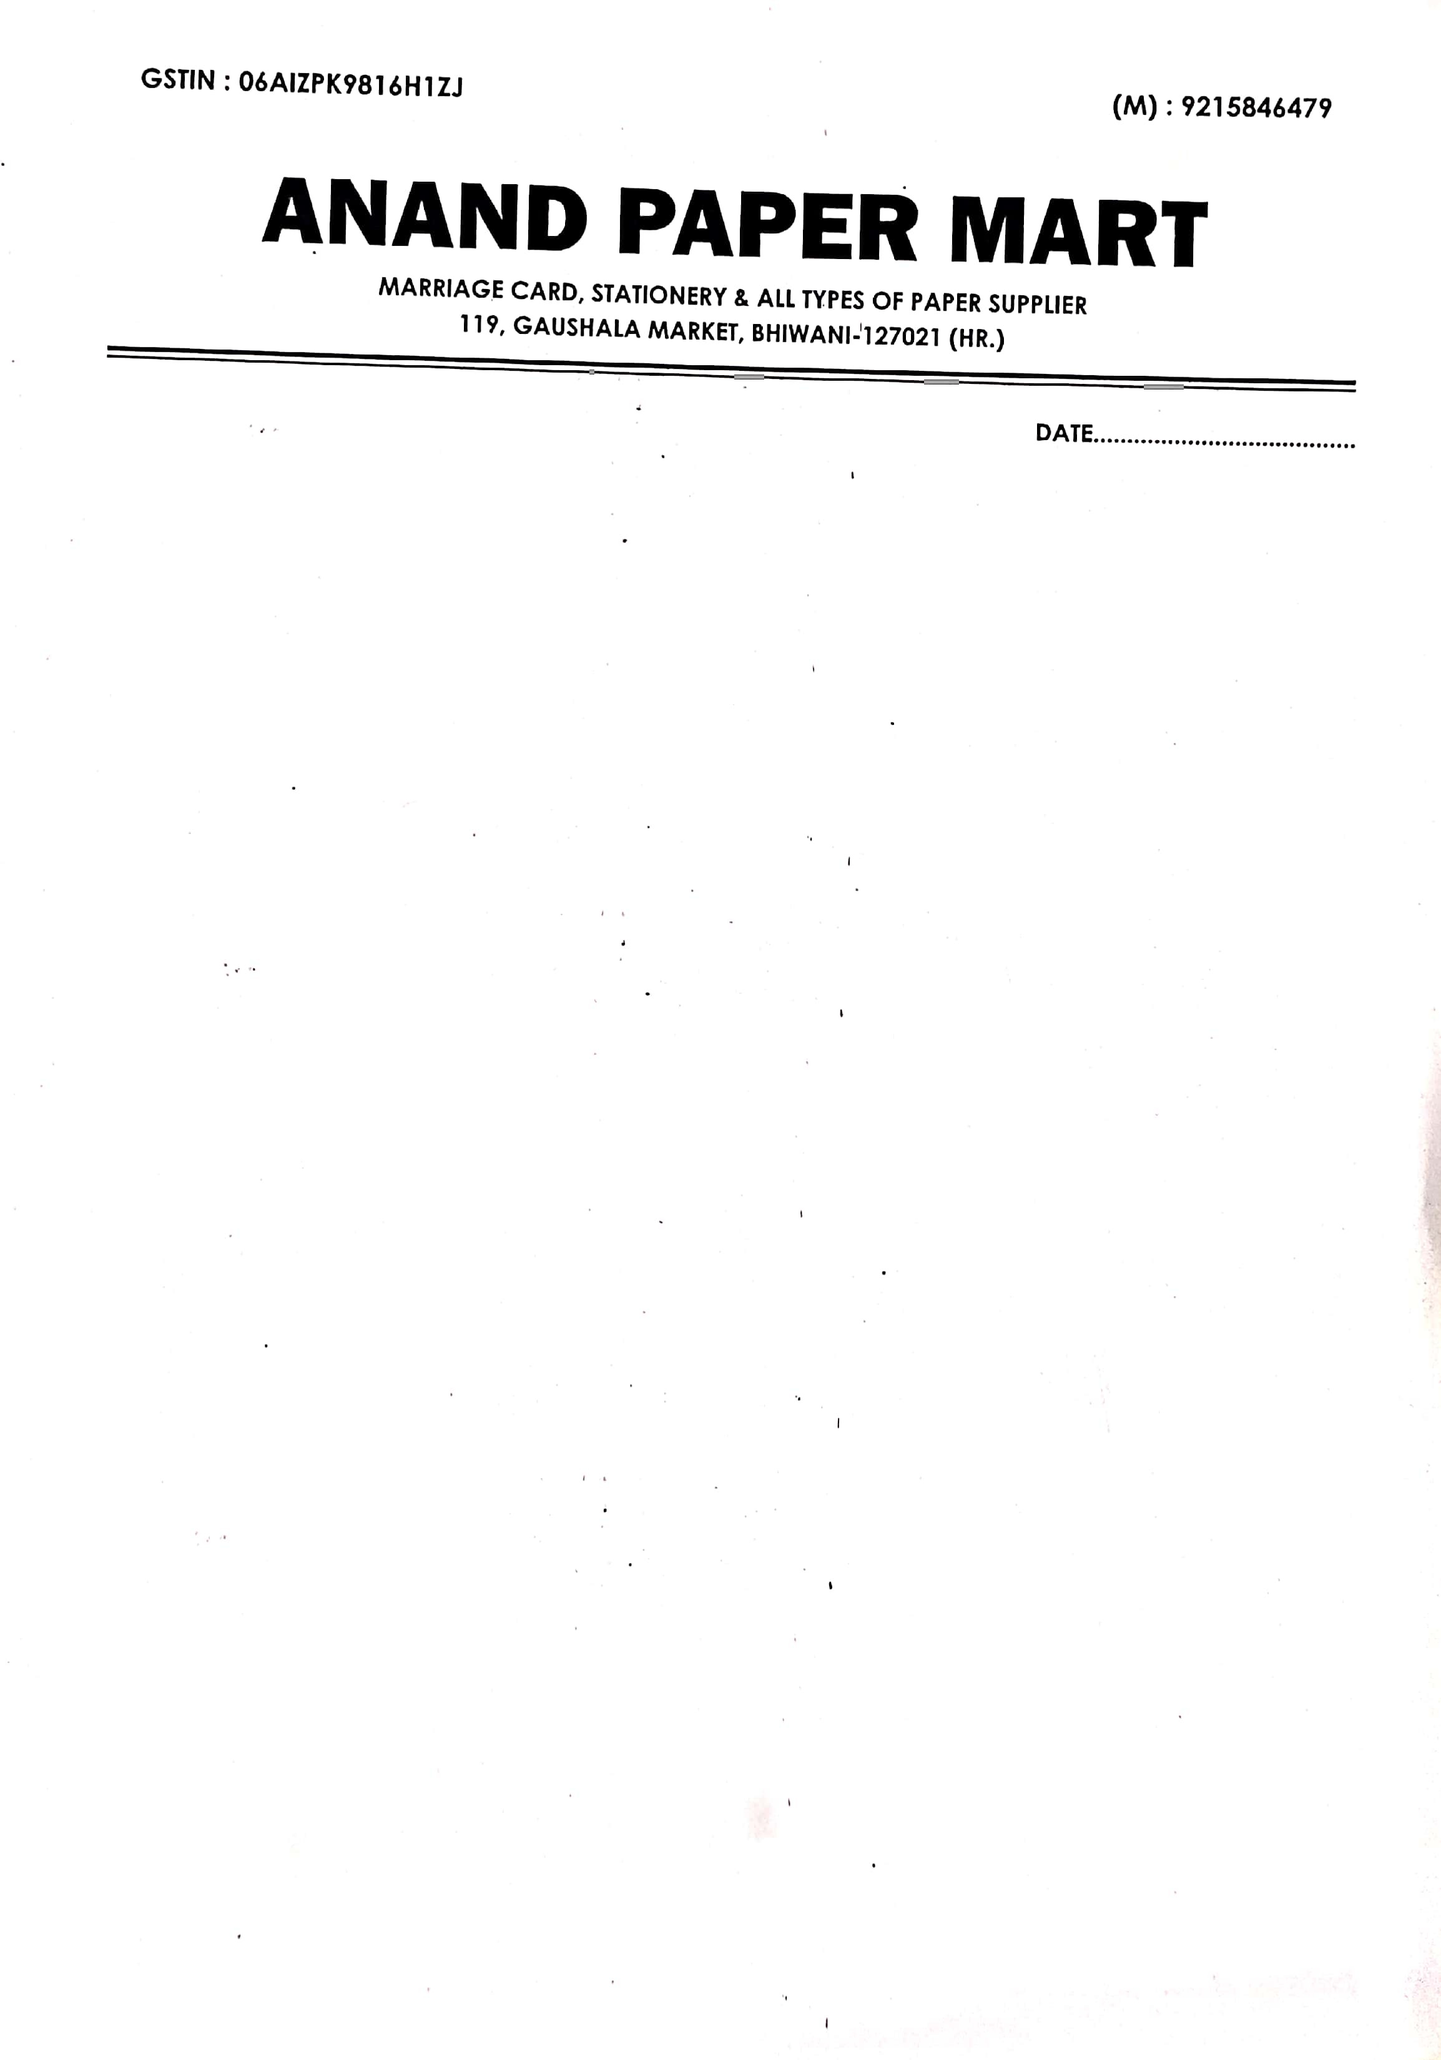
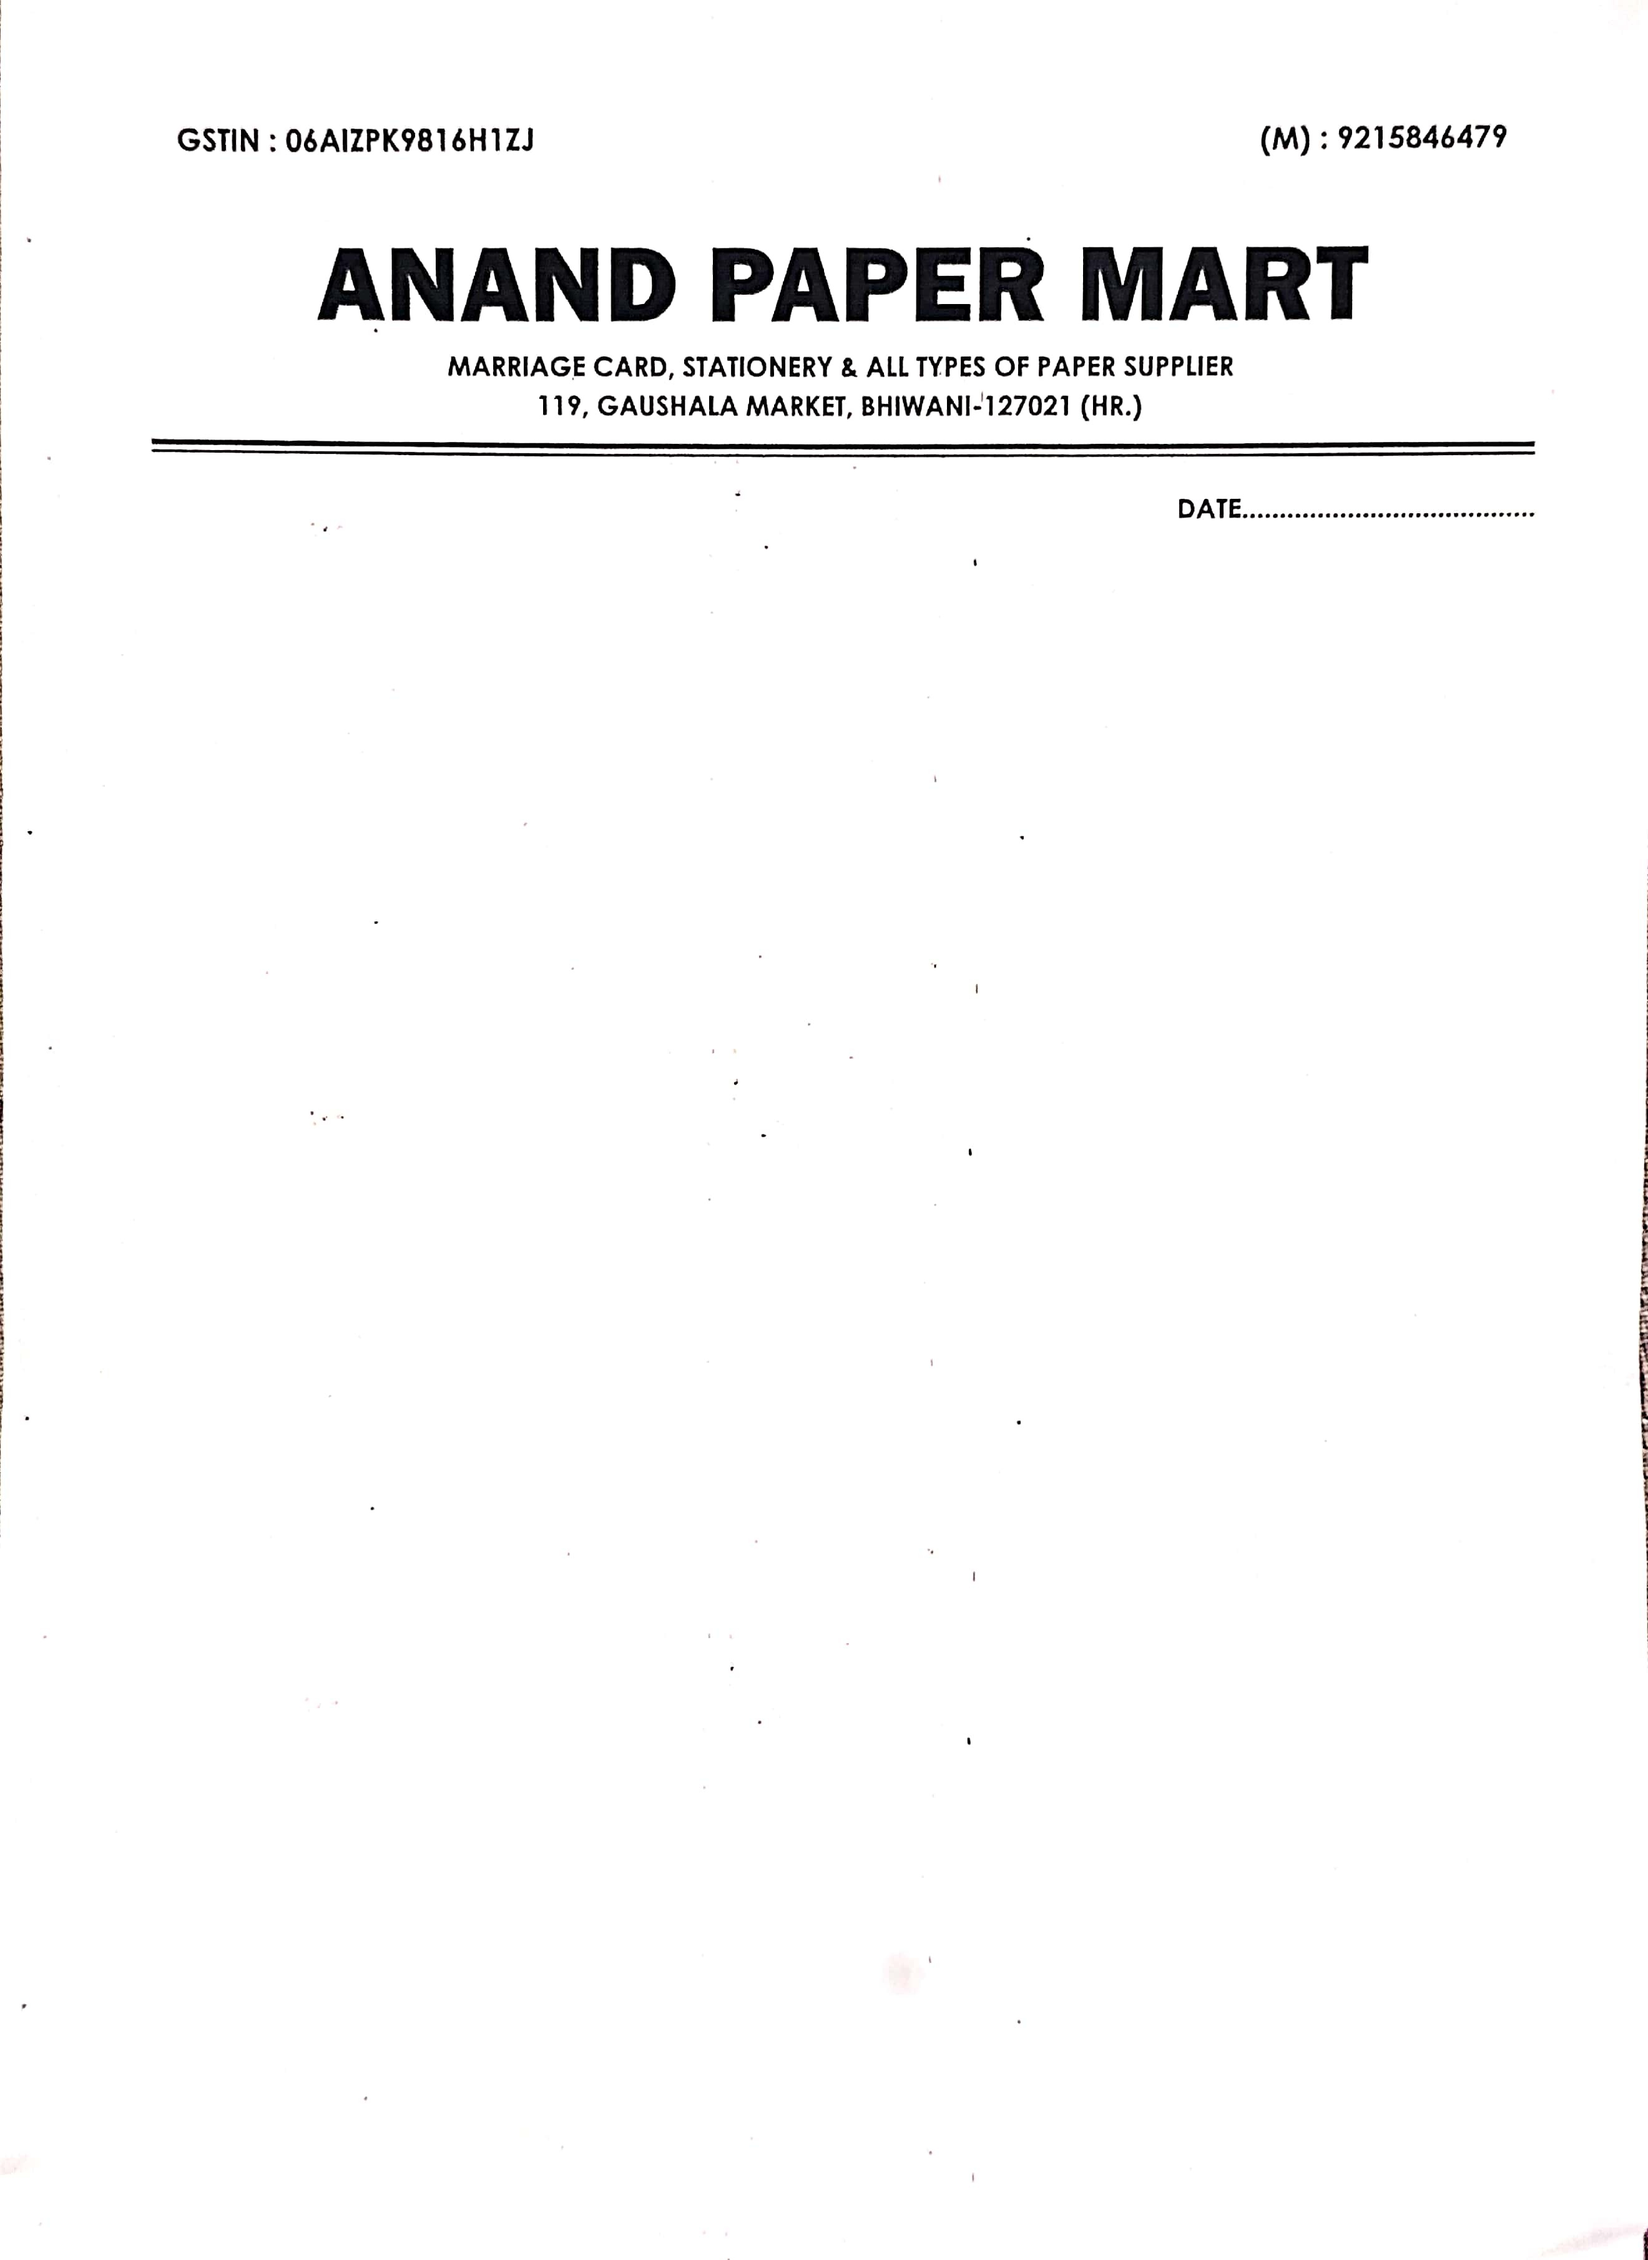
Fix Scenario B/C layout and add multi-page pagination to all scenario PDFs
- Align serial numbers, rates, and description text on the same baseline
  using real font metrics instead of guessed offsets
- Remove per-row separator lines and header rule lines; add letter-spaced
  uppercase column headers in Scenario C
- Tighten the dead space between the letterhead and item table in Scenario C
- Paginate Scenario A/B/C onto additional pages (redrawing the template
  background and repeating headers) instead of overlapping footer artwork
  or running content off the page when there are many items
- Update README prerequisites to match the PaddleOCR migration
- Refresh scenario_22.jpeg/scenario_33.jpeg template scans

diff --git a/backend/app/services/pdf_service.py b/backend/app/services/pdf_service.py
@@ -17,6 +17,7 @@ from reportlab.lib.pagesizes import A4
 from reportlab.lib.styles import ParagraphStyle, getSampleStyleSheet
 from reportlab.lib.units import mm
 from reportlab.lib.utils import ImageReader
+from reportlab.pdfbase import pdfmetrics
 from reportlab.pdfgen import canvas
 from reportlab.platypus import Paragraph, Table, TableStyle
 
@@ -124,6 +125,45 @@ _scenario3_amount_style = ParagraphStyle(
 )
 
 
+def _first_line_baseline_offset(style: ParagraphStyle) -> float:
+    """Distance below a Paragraph's top edge where its first text baseline falls.
+
+    A Paragraph draws each line's baseline near the bottom of its ``leading``
+    slot (offset by the font's descent), not at the slot's top edge. Plain
+    ``drawString``/``drawRightString`` calls that need to sit on the same
+    visual line as a Paragraph (e.g. a serial number next to a wrapped
+    description) must use this offset instead of a guessed constant.
+    """
+    _, descent = pdfmetrics.getAscentDescent(style.fontName, style.fontSize)
+    return style.leading - abs(descent)
+
+
+_scenario2_row_baseline_offset = _first_line_baseline_offset(_scenario2_product_style)
+_scenario3_row_baseline_offset = _first_line_baseline_offset(_scenario3_desc_style)
+
+
+def _draw_tracked_string(
+    c: canvas.Canvas,
+    x: float,
+    y: float,
+    text: str,
+    font_name: str,
+    font_size: float,
+    char_space: float,
+    color: colors.Color,
+    align: str = "left",
+) -> None:
+    """Draw text with letter-spacing (canvas.Canvas has no public setCharSpace)."""
+    width = pdfmetrics.stringWidth(text, font_name, font_size) + char_space * max(len(text) - 1, 0)
+    start_x = x - width if align == "right" else x
+    text_obj = c.beginText(start_x, y)
+    text_obj.setFont(font_name, font_size)
+    text_obj.setFillColor(color)
+    text_obj.setCharSpace(char_space)
+    text_obj.textOut(text)
+    c.drawText(text_obj)
+
+
 def _money(value: Decimal) -> str:
     return f"Rs. {value:,.2f}"
 
@@ -201,64 +241,109 @@ def _build_item_table(scenario: Scenario) -> Table:
     return table
 
 
-def _draw_scenario1(c: canvas.Canvas, scenario: Scenario) -> None:
+def _draw_scenario1(c: canvas.Canvas, scenario: Scenario, template_path: Path) -> None:
     table = _build_item_table(scenario)
-    _, table_height = table.wrap(CONTENT_WIDTH, PAGE_HEIGHT)
     table_top = PAGE_HEIGHT - 75 * mm
     table_bottom_limit = 105
-    table_y = max(table_bottom_limit, table_top - table_height)
-    table.drawOn(c, CONTENT_LEFT, table_y)
+    available_height = table_top - table_bottom_limit
+
+    _, table_height = table.wrap(CONTENT_WIDTH, PAGE_HEIGHT)
+
+    while table_height > available_height:
+        parts = table.split(CONTENT_WIDTH, available_height)
+        if len(parts) < 2:
+            break  # a single row taller than a page; nothing more we can do
+        head, table = parts
+        _, head_height = head.wrap(CONTENT_WIDTH, PAGE_HEIGHT)
+        head.drawOn(c, CONTENT_LEFT, table_top - head_height)
+
+        c.showPage()
+        if template_path.exists():
+            _draw_template_background(c, template_path)
+
+        _, table_height = table.wrap(CONTENT_WIDTH, PAGE_HEIGHT)
+
+    table.drawOn(c, CONTENT_LEFT, max(table_bottom_limit, table_top - table_height))
 
 
-def _draw_scenario2(c: canvas.Canvas, scenario: Scenario) -> None:
+def _draw_scenario2(c: canvas.Canvas, scenario: Scenario, template_path: Path) -> None:
     top_y = PAGE_HEIGHT - 72 * mm
     left_x = CONTENT_LEFT
+    serial_width = 8 * mm
+    desc_x = left_x + serial_width
     rate_x = CONTENT_RIGHT
     row_gap = 14 * mm
+    bottom_limit = 25 * mm  # scenario_22.jpeg has no footer artwork; just clear the physical page edge
 
-    for idx, item in enumerate(scenario.items):
-        row_top = top_y - idx * row_gap
+    row_top = top_y
+    for idx, item in enumerate(scenario.items, start=1):
         desc_para = Paragraph(item.description, _scenario2_product_style)
-        _, desc_height = desc_para.wrap(CONTENT_WIDTH - 35 * mm, PAGE_HEIGHT)
-        desc_para.drawOn(c, left_x, row_top - desc_height)
+        _, desc_height = desc_para.wrap(CONTENT_WIDTH - 35 * mm - serial_width, PAGE_HEIGHT)
+
+        if row_top - desc_height < bottom_limit:
+            c.showPage()
+            if template_path.exists():
+                _draw_template_background(c, template_path)
+            row_top = top_y
+
+        baseline_y = row_top - _scenario2_row_baseline_offset
+
+        c.setFont("Helvetica", 9)
+        c.setFillColor(colors.HexColor("#6b7280"))
+        c.drawString(left_x, baseline_y, f"{idx}.")
+
+        desc_para.drawOn(c, desc_x, row_top - desc_height)
 
         c.setFont(_scenario2_rate_style.fontName, _scenario2_rate_style.fontSize)
         c.setFillColor(_scenario2_rate_style.textColor)
-        c.drawRightString(rate_x, row_top - 3, _money(item.adjusted_rate))
+        c.drawRightString(rate_x, baseline_y, _money(item.adjusted_rate))
 
-        c.setStrokeColor(colors.HexColor("#cbd5e1"))
-        c.setLineWidth(0.7)
-        c.line(left_x, row_top - row_gap + 1, rate_x, row_top - row_gap + 1)
+        row_top -= row_gap
 
-def _draw_scenario3(c: canvas.Canvas, scenario: Scenario) -> None:
+
+def _draw_scenario3(c: canvas.Canvas, scenario: Scenario, template_path: Path) -> None:
     left_x = CONTENT_LEFT
     right_x = CONTENT_RIGHT
-    top_y = PAGE_HEIGHT - 84 * mm
+    top_y = PAGE_HEIGHT - 54 * mm
     row_gap = 14 * mm
+    serial_width = 8 * mm
+    desc_x = left_x + serial_width
+    # scenario_33.jpeg's "DELIVERING your SATISFACTION" footer artwork starts ~260mm
+    # from the top (measured directly from the template image); keep rows above it.
+    bottom_limit = PAGE_HEIGHT - 245 * mm
 
-    c.setStrokeColor(colors.HexColor("#334155"))
-    c.setLineWidth(1.0)
-    c.line(left_x, top_y + 5, right_x, top_y + 5)
-    c.setFont("Helvetica-Bold", 10)
-    c.setFillColor(colors.HexColor("#334155"))
-    c.drawString(left_x, top_y - 2, "Description")
-    c.drawRightString(right_x, top_y - 2, "Amount")
-    c.setStrokeColor(colors.HexColor("#cbd5e1"))
-    c.line(left_x, top_y - 5, right_x, top_y - 5)
+    def draw_column_header(y: float) -> None:
+        header_color = colors.HexColor("#0f172a")
+        _draw_tracked_string(c, desc_x, y - 2, "DESCRIPTION", "Helvetica-Bold", 9, 0.8, header_color)
+        _draw_tracked_string(c, right_x, y - 2, "AMOUNT", "Helvetica-Bold", 9, 0.8, header_color, align="right")
 
-    for idx, item in enumerate(scenario.items):
-        row_top = top_y - 10 * mm - idx * row_gap
+    draw_column_header(top_y)
+    row_top = top_y - 10 * mm
+
+    for idx, item in enumerate(scenario.items, start=1):
         desc_para = Paragraph(item.description, _scenario3_desc_style)
-        _, desc_height = desc_para.wrap(CONTENT_WIDTH - 34 * mm, PAGE_HEIGHT)
-        desc_para.drawOn(c, left_x, row_top - desc_height)
+        _, desc_height = desc_para.wrap(CONTENT_WIDTH - 34 * mm - serial_width, PAGE_HEIGHT)
+
+        if row_top - desc_height < bottom_limit:
+            c.showPage()
+            if template_path.exists():
+                _draw_template_background(c, template_path)
+            draw_column_header(top_y)
+            row_top = top_y - 10 * mm
+
+        baseline_y = row_top - _scenario3_row_baseline_offset
+
+        c.setFont("Helvetica", 9)
+        c.setFillColor(colors.HexColor("#64748b"))
+        c.drawString(left_x, baseline_y, f"{idx}.")
+
+        desc_para.drawOn(c, desc_x, row_top - desc_height)
 
         c.setFont(_scenario3_amount_style.fontName, _scenario3_amount_style.fontSize)
         c.setFillColor(_scenario3_amount_style.textColor)
-        c.drawRightString(right_x, row_top - 2, _money(item.adjusted_rate))
+        c.drawRightString(right_x, baseline_y, _money(item.adjusted_rate))
 
-        c.setStrokeColor(colors.HexColor("#e2e8f0"))
-        c.setLineWidth(0.7)
-        c.line(left_x, row_top - row_gap + 2, right_x, row_top - row_gap + 2)
+        row_top -= row_gap
 
 def generate_scenario_pdf(bill: Bill, scenario: Scenario) -> Path:
     out_dir = settings.generated_dir / bill.id
@@ -274,11 +359,11 @@ def generate_scenario_pdf(bill: Bill, scenario: Scenario) -> Path:
 
     label = scenario.label.lower()
     if scenario.scenario_type == TYPE_BASELINE or "scenario a" in label:
-        _draw_scenario1(c, scenario)
+        _draw_scenario1(c, scenario, template_path)
     elif "scenario c" in label:
-        _draw_scenario3(c, scenario)
+        _draw_scenario3(c, scenario, template_path)
     else:
-        _draw_scenario2(c, scenario)
+        _draw_scenario2(c, scenario, template_path)
 
     c.showPage()
     c.save()

diff --git a/README.md b/README.md
@@ -48,15 +48,20 @@ frontend/
 
 ## Prerequisites
 
-Already expected on this machine (adjust paths in
-`backend/app/core/config.py` if yours differ):
-
-- Python 3.12+
+- Python 3.11+ (3.12 also verified)
 - Node.js 18+
-- Tesseract-OCR binary (`APP_TESSERACT_CMD`, default
-  `C:\Users\91981\Tesseract-OCR\tesseract.exe`)
-- Poppler `bin/` directory (`APP_POPPLER_PATH`) — used as a fallback path
-  hint; primary PDF rendering goes through PyMuPDF and doesn't need it.
+
+No separate OCR binary install is required — OCR runs via the `paddleocr`
+PyPI package (`backend/requirements.txt`), which brings its own models and
+CPU inference runtime. Poppler is optional (`APP_POPPLER_PATH`); primary
+PDF rendering goes through PyMuPDF and doesn't need it.
+
+On first OCR run, `paddleocr` downloads its model weights (several hundred
+MB) to a local cache (`~/.paddlex/official_models`) — this needs internet
+access once; subsequent runs use the cache. CPU inference is noticeably
+slower than the OCR engine this project started with (multiple
+seconds-to-minutes per page depending on document size), and if a page
+triggers the confidence-based retry, that cost repeats once more per page.
 
 ## Setup
 
